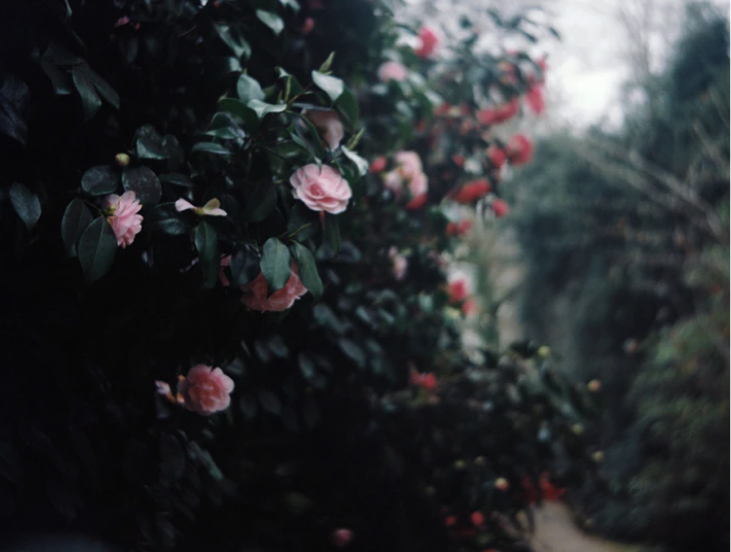
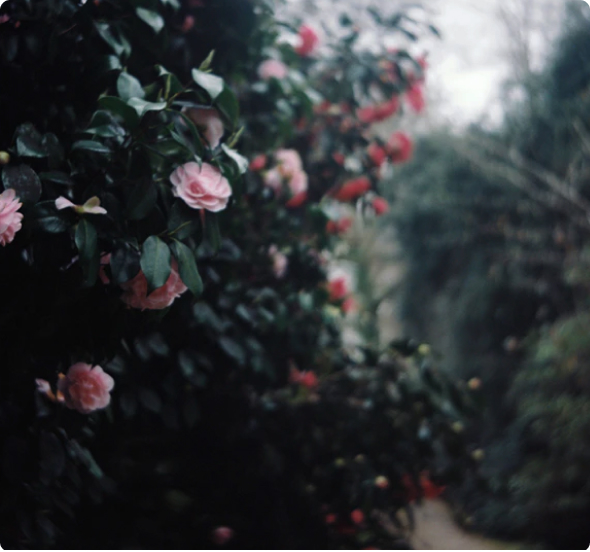
new page

diff --git a/index.html b/index.html
@@ -34,6 +34,11 @@
                 <div class="articles-header-left">Все статьи</div>
                 <select name="nnn" id="nnn" class="articles-header-right rounded">
                     <option value="Выбрать тему" class="option-1">Выбрть тему</option>
+                    <option value="Выбрать тему" class="option-1">Путешествия</option>
+                    <option value="Выбрать тему" class="option-1">Город</option>
+                    <option value="Выбрать тему" class="option-1">Книги</option>
+                    <option value="Выбрать тему" class="option-1">Фотографии</option>
+                    <option value="Выбрать тему" class="option-1">Рецепты</option>
                 </select>
             </div>
 
@@ -75,6 +80,7 @@
             <div class="articles-second">
 
                 <div class="article-second-item rounded fourth">
+                    <img src="./img/articles/image 4.jpg" alt="" class="article-second-item-image rounded">
                     <div class="article-item-title">Снимки на плёнку</div>
                     <div class="article-item-subtitle">Поделилась с вами весенними фотографиями, 
                         и секретами удачных снимков.</div>
@@ -85,6 +91,7 @@
                 </div>
 
                 <div class="article-second-item rounded fifth">
+                    <img src="./img/articles/image 5.jpg" alt="" class="article-second-item-image rounded">
                     <!-- <img src="./img/articles/image 4.jpg" alt=""> -->
                     <div class="article-item-title">Домашний чизкейк</div>
                     <div class="article-item-subtitle">Что может быть лучше чизкейка с сезонными
@@ -112,19 +119,22 @@
             <div class="aboutMe-content">
                 <img src="./img/image 6.jpg" alt="" class="aboutMe-content-photo rounded">
                 <div class="aboutMe-content-right">
-                    <p>Всем привет! Меня зовут Аня, и это мой личный блог.
-                        Здесь ты найдёшь рассказы о моих путешествиях, снимки
-                        на плёнку, рецепты, обзоры на книги. В общем, тексты о том,
-                        что мне инетресно.
-                    </p>
-                    <p>Я работаю копирайтером, поэтому мой блоге — это ещё и моё
-                        портфолио. Ниже размещены несколько моих лучших
-                        рабочих текстов. Буду рада новым сотрудничествам!
-                    </p>
-                    <p>Если вы хотите написать мне — это можно сделать в соцсетях
-                        или через форму. Всегда приятно услышать обратную связь
-                        от читателей и познакомиться поближе.                        
-                    </p>
+                    <div>
+                        <p>Всем привет! Меня зовут Аня, и это мой личный блог.
+                            Здесь ты найдёшь рассказы о моих путешествиях, снимки
+                            на плёнку, рецепты, обзоры на книги. В общем, тексты о том,
+                            что мне инетресно.
+                        </p>
+                        <p>Я работаю копирайтером, поэтому мой блоге — это ещё и моё
+                            портфолио. Ниже размещены несколько моих лучших
+                            рабочих текстов. Буду рада новым сотрудничествам!
+                        </p>
+                        <p>Если вы хотите написать мне — это можно сделать в соцсетях
+                            или через форму. Всегда приятно услышать обратную связь
+                            от читателей и познакомиться поближе.                        
+                        </p>
+                    </div>
+                    
 
                     <div class="aboutMe-content-right-stress">
                         Я верю, что каждый раз пробуя новое,
@@ -205,15 +215,41 @@
 
         <form action="https://echo.htmlacademy.ru/courses" method="post" class="form">
             <img src="./img/form.jpg" alt="">
-        
-            <input type="text" class="form-name rounded form-item" name="name" placeholder="Иван Иванов">
-            <input type="email" class="form-email rounded form-item" name="email" placeholder="google@gmail.com">
-            <input type="text" class="form-message rounded form-item" name="message" placeholder="Напишите ваше сообщение здесь">
-            <input type="button" name='submit' value="submit">
+            
+            <div class="form-top">
+                <div class="form-item-wrapper">
+                    <label for="form-name" class="form-label">Ваше имя</label>
+                    <input required  type="text" class="form-name rounded form-item" name="name" placeholder="Иван Иванов">
+                </div>
+                <div class="form-item-wrapper">
+                    <label for="form-email" class="form-label">Email</label>
+                    <input required type="email" class="form-email rounded form-item" name="email" placeholder="google@gmail.com">
+                </div>
+            </div>
 
-        
+            
+            <div class="form-bottom">
+                <div class="form-item-wrapper">
+                    <label for="form-message" class="form-label">Сообщение</label>
+                    <textarea rows="10" class="form-message rounded form-item" name="message" placeholder="Напишите ваше сообщение здесь"></textarea>
+                </div>
+            </div>
+            
+            <div class="button-wrapper">
+                <input min="10" max="200" type="button" name='submit' value="ОТПРАВИТЬ" class="rounded form-item submit-button">
+            </div>
+
         </form>
 
     </main>
+
+    <footer class="footer">
+
+        <div class="footer-item footer-vk">ВК</div>
+        <div class="footer-item footer-telegram">Телеграм</div>
+        <div class="footer-item footer-instagram">Инстаграм</div>
+        <div class="footer-item footer-twitter">Твиттер</div>
+
+    </footer>
 </body>
 </html>

diff --git a/style.css b/style.css
@@ -110,7 +110,7 @@ a {
 }
 
 .articles-header-left {
-    font-family: 'SpectralSC';
+    font-family: SpectralSC;
     font-weight: 700;
     font-size: 36px;
     line-height: 55px;
@@ -182,13 +182,23 @@ a {
     left: 0; */
 }
 
-.fourth {
+.article-second-item-image {
+    position: relative;
+    top: 180px;
+    left: -60px;
+    width: 600px;
+    height: 552px;
+    z-index: -1;
+    /* transform: translate(-60px 60px); */
+}
+
+/* .fourth {
     background-image: url('./img/articles/image 4.jpg');
 }
 
 .fifth {
     background-image: url('./img/articles/image 5.jpg');
-}
+} */
 
 .articles-button-wrapper, .portfolio-button-wrapper {
     display: flex;
@@ -202,12 +212,11 @@ a {
     /* grid-template-columns: repeat(2, 1fr); */
 }
 
-.aboutMe-content-photo {
-
-}
-
 .aboutMe-content-right {
     padding: 40px 40px 0 40px;
+    display: flex;
+    flex-direction: column;
+    justify-content: space-between;
 }
 
 .aboutMe-content-right-stress {
@@ -275,11 +284,14 @@ a {
 
 .form {
     display: flex;
+    flex-direction: column;
+    box-sizing: border-box;
     width: 996px;
     height: 741;
-    box-sizing: border-box;
-    margin: 0 auto;
+    margin: 0 auto 70px;
     padding: 70px;
+    gap: 20px;
+    overflow: hidden;
 
 }
 
@@ -287,22 +299,71 @@ form img {
     position: absolute;
     z-index: -1;
     transform: translate(-70px, -70px);
+    width: 996px;
+    height: 637px;
 }
 
 .form-item {
+    font-family: 'Open Sans';
     padding: 20px 15px;
     border: 1px solid #202117;
     outline: none;
     background: rgba(255, 255, 255, 0.4);
     font-size: 16px;
     line-height: 22px;
-    
+    margin-top: 10px;
 }
 
-.form-name, .form-email {
-    width: 50%;
+.form-label {
+    font-family: Spectral SC;
+    font-style: normal;
+    font-weight: bold;
+    font-size: 18px;
+    line-height: 28px;
+    display: flex;
+    flex-direction: column;
 }
 
-.form-message {
+.form-item-wrapper {
+    display: flex;
+    flex-direction: column;
     width: 100%;
+}
+
+.form-top {
+    display: flex;
+    flex-direction: row;
+    gap: 20px;
+}
+
+.button-wrapper {
+    display: flex;
+    justify-content: center;
+}
+
+.button-wrapper input {
+    background-color: transparent;
+    justify-self: center;
+    padding: 10px 70px;
+    cursor: pointer;
+}
+
+/* ФУТЕР */
+
+footer {
+    display: flex;
+    padding: 80px;
+    justify-content: center;
+    background-color: #D7D1C9;
+}
+
+.footer-item {
+    margin: 0 50px;
+    border-bottom: 2px solid transparent;
+    cursor: pointer;
+    transition: border-bottom 0.1s;
+}
+
+.footer-item:hover {
+    border-bottom: 2px solid #2E2F22;
 }
